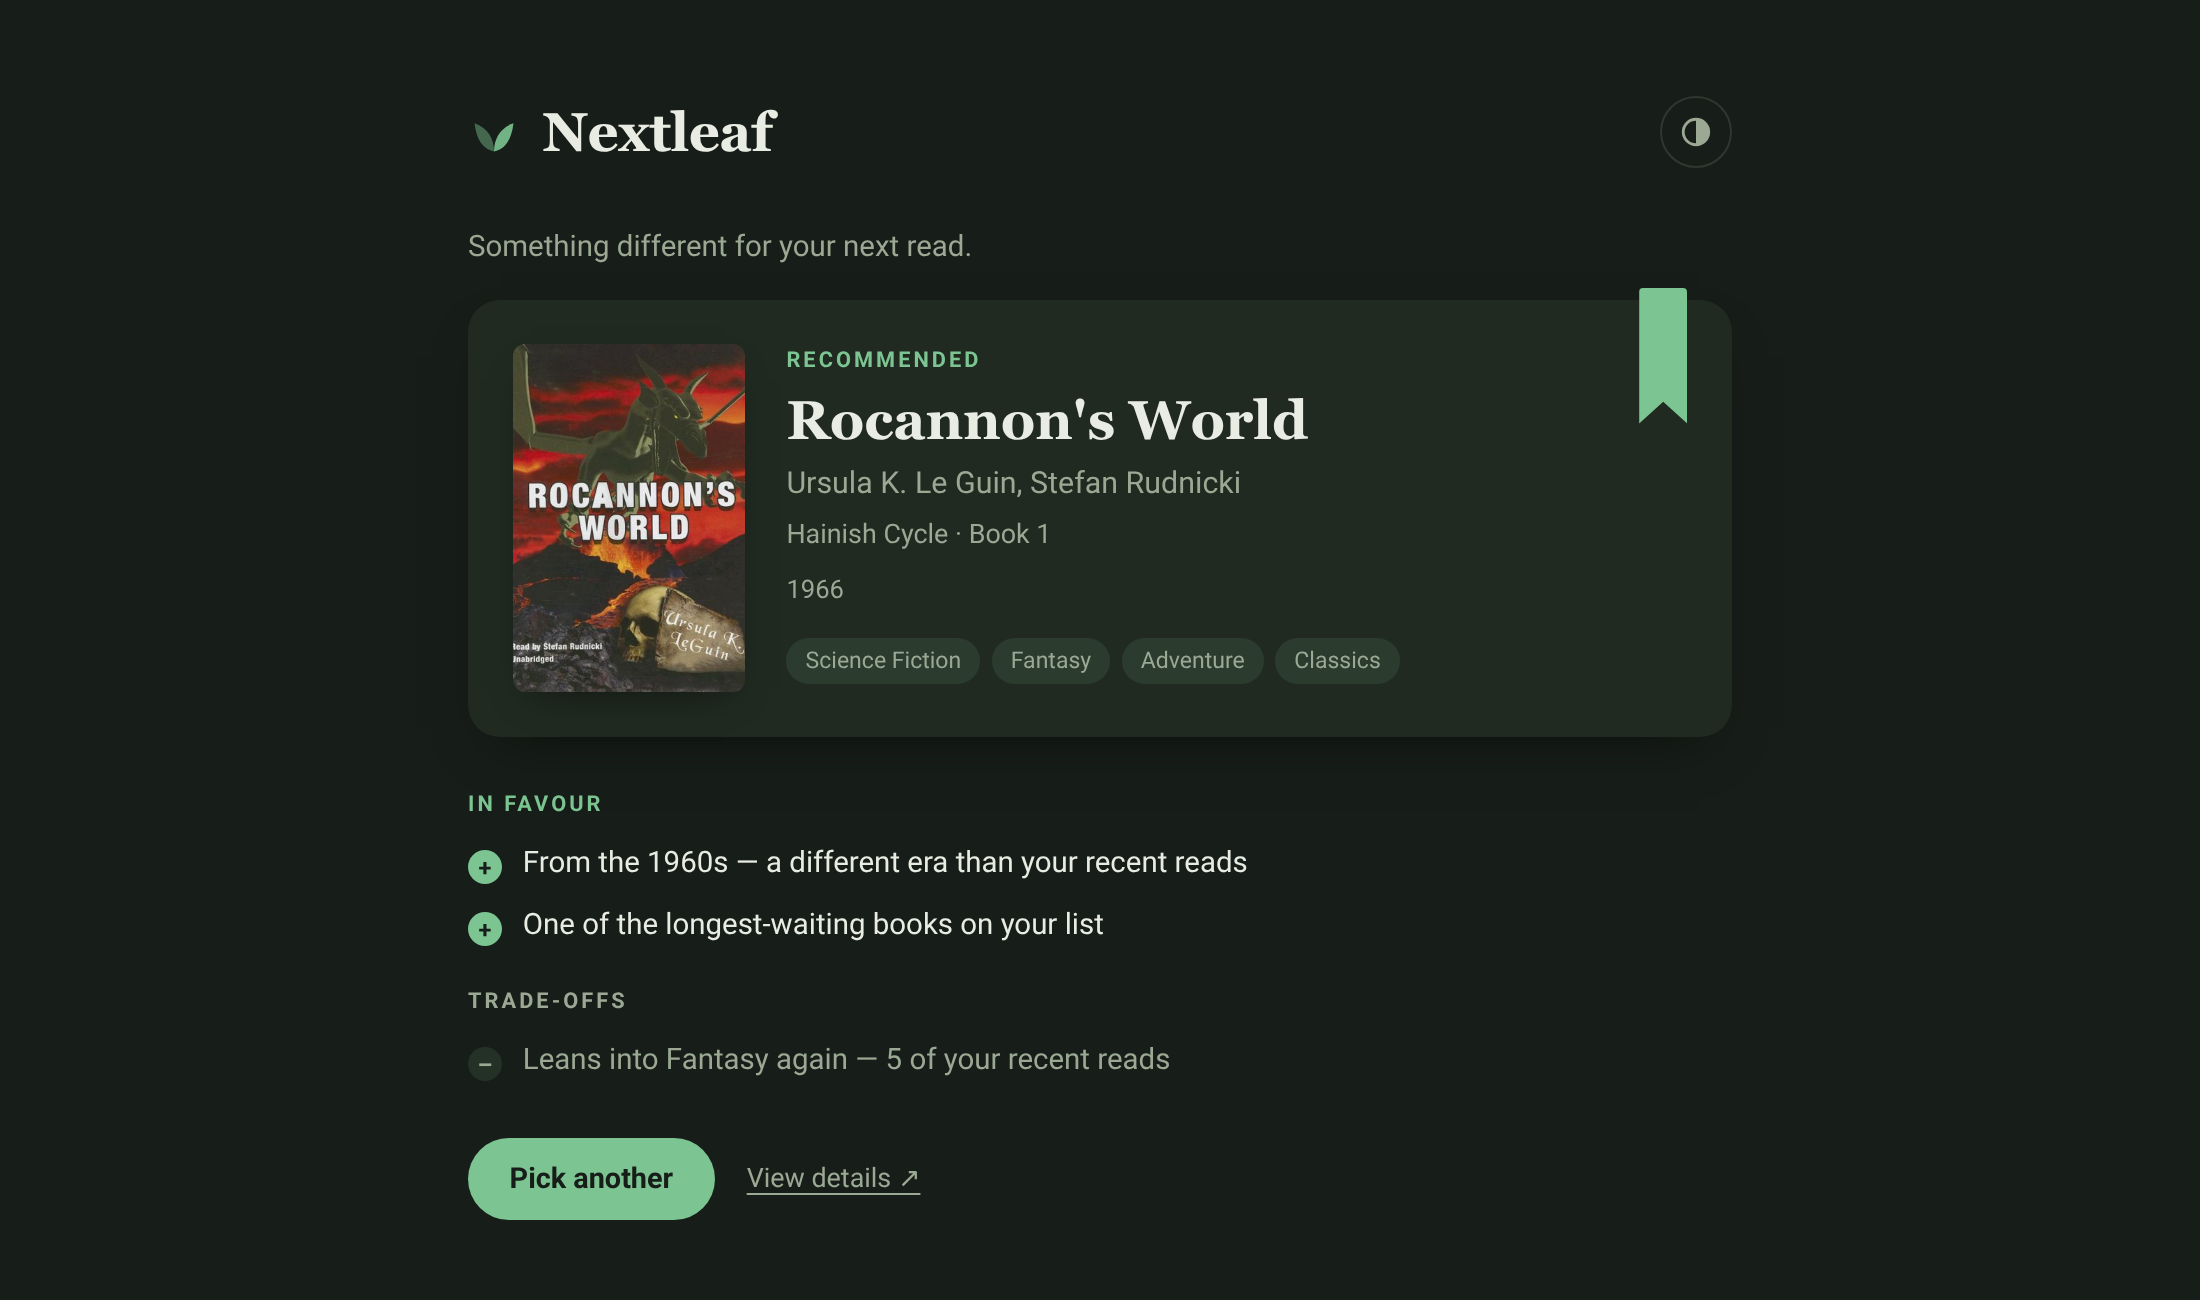
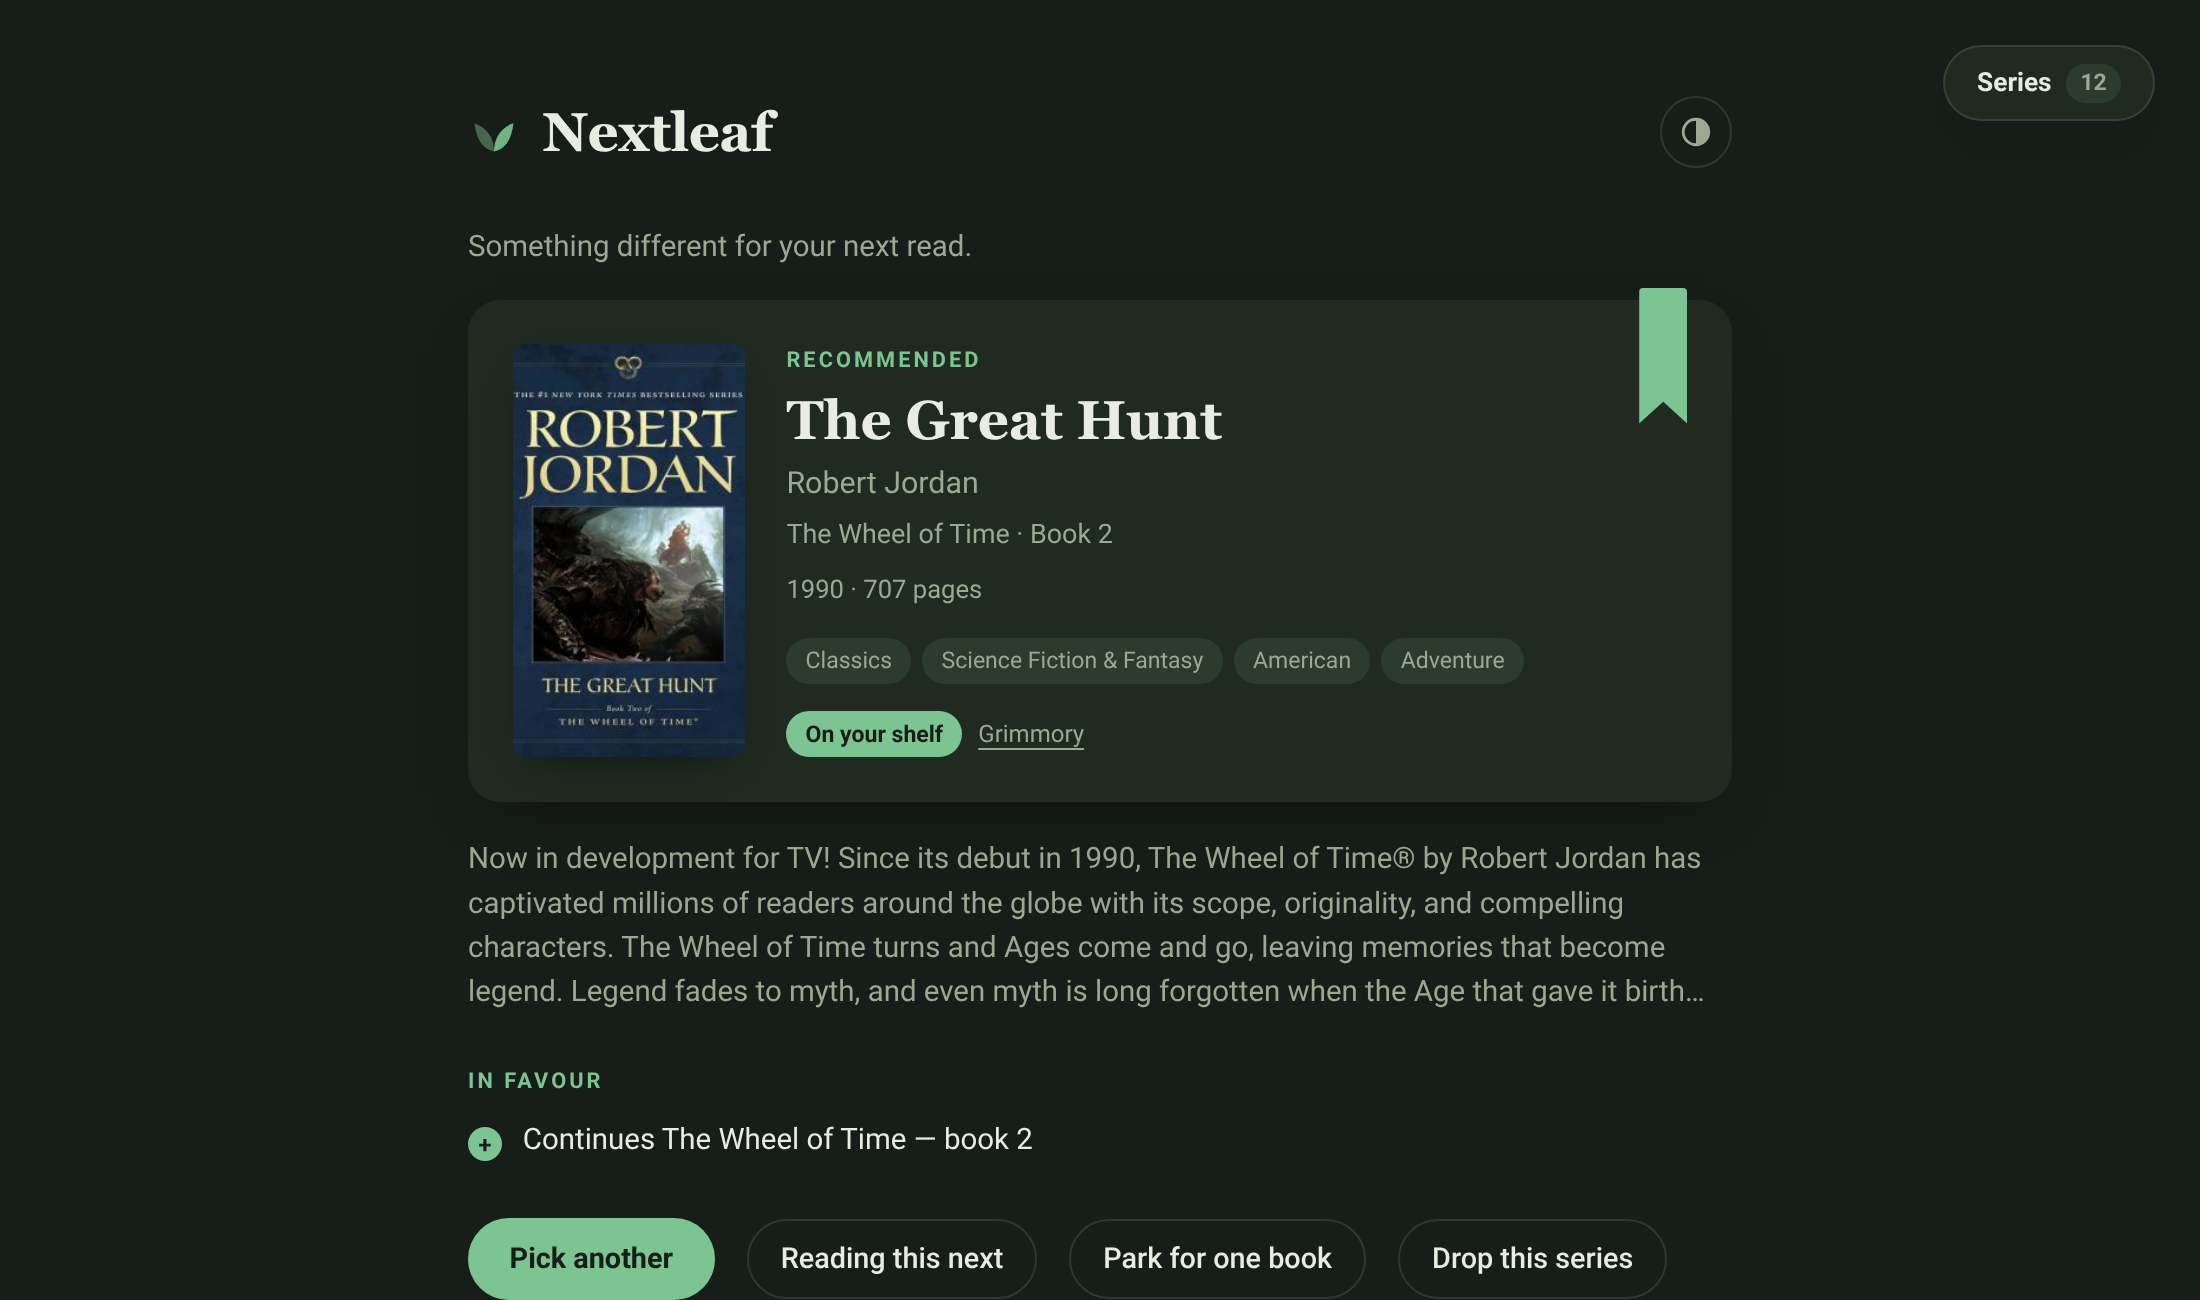
docs: refresh the screenshots and README for series tracking
The screenshots predated the entire feature. Light and dark now show the
recommendation card with its standing decisions, and a new drawer shot shows
the series panel: identity badges, next-book covers, the pinned series on
top. The series section also catches up with the drawer's badges and the
switching wheel.

diff --git a/README.md b/README.md
@@ -27,10 +27,15 @@ decisions:
   the variety pool too. Adding one of its books back to your reading list undoes
   it.
 
-A side drawer lists every series you're tracking with the cover of its next
-book, and carries **Pick this** and **Drop** on each row plus the undo that
-fits its state. Series you're caught up with sit in a **Finished** drawer at
-the bottom, and move back out on their own when a new book appears.
+A side drawer lists every series you're tracking, badged with the backend it
+comes from and how far you've read, with the cover of its next book and
+**Pick this**, **Park** and **Drop** on each row plus the undo that fits its
+state. The pinned series sits on top; series you're caught up with fold into
+a **Finished** group at the bottom and move back out on their own when a new
+book appears. When the same books belong to several series — a franchise and
+its chronological reordering, or two backends naming it differently — a ⇄
+control spins the row in place like a wheel, previewing each identity with
+its own cover, and one pick refiles the series.
 
 Nothing about your series is stored: the view is recomputed from your sources
 on every look, so it follows whatever they say now — renamed series, corrected
@@ -45,10 +50,15 @@ and omnibus bundles are filtered out: Hardcover files all of them at the same
 series position, so NextLeaf picks the one with an English edition.
 
 ![NextLeaf recommending a book in light mode](docs/screenshots/light.png)
-*A variety-weighted pick, and why it was chosen.*
+*Continuing a series: the next book, why it was picked, and the standing
+decisions right on the card.*
 
 ![NextLeaf recommending a book in dark mode](docs/screenshots/dark.png)
-*Dark mode, following the system theme. Any trade-offs of a pick are shown too.*
+*Dark mode, following the system theme.*
+
+![The series drawer](docs/screenshots/drawer.png)
+*The series drawer: everything you're in, badged by backend and position,
+with the pinned series on top.*
 
 ## Configuration
 
